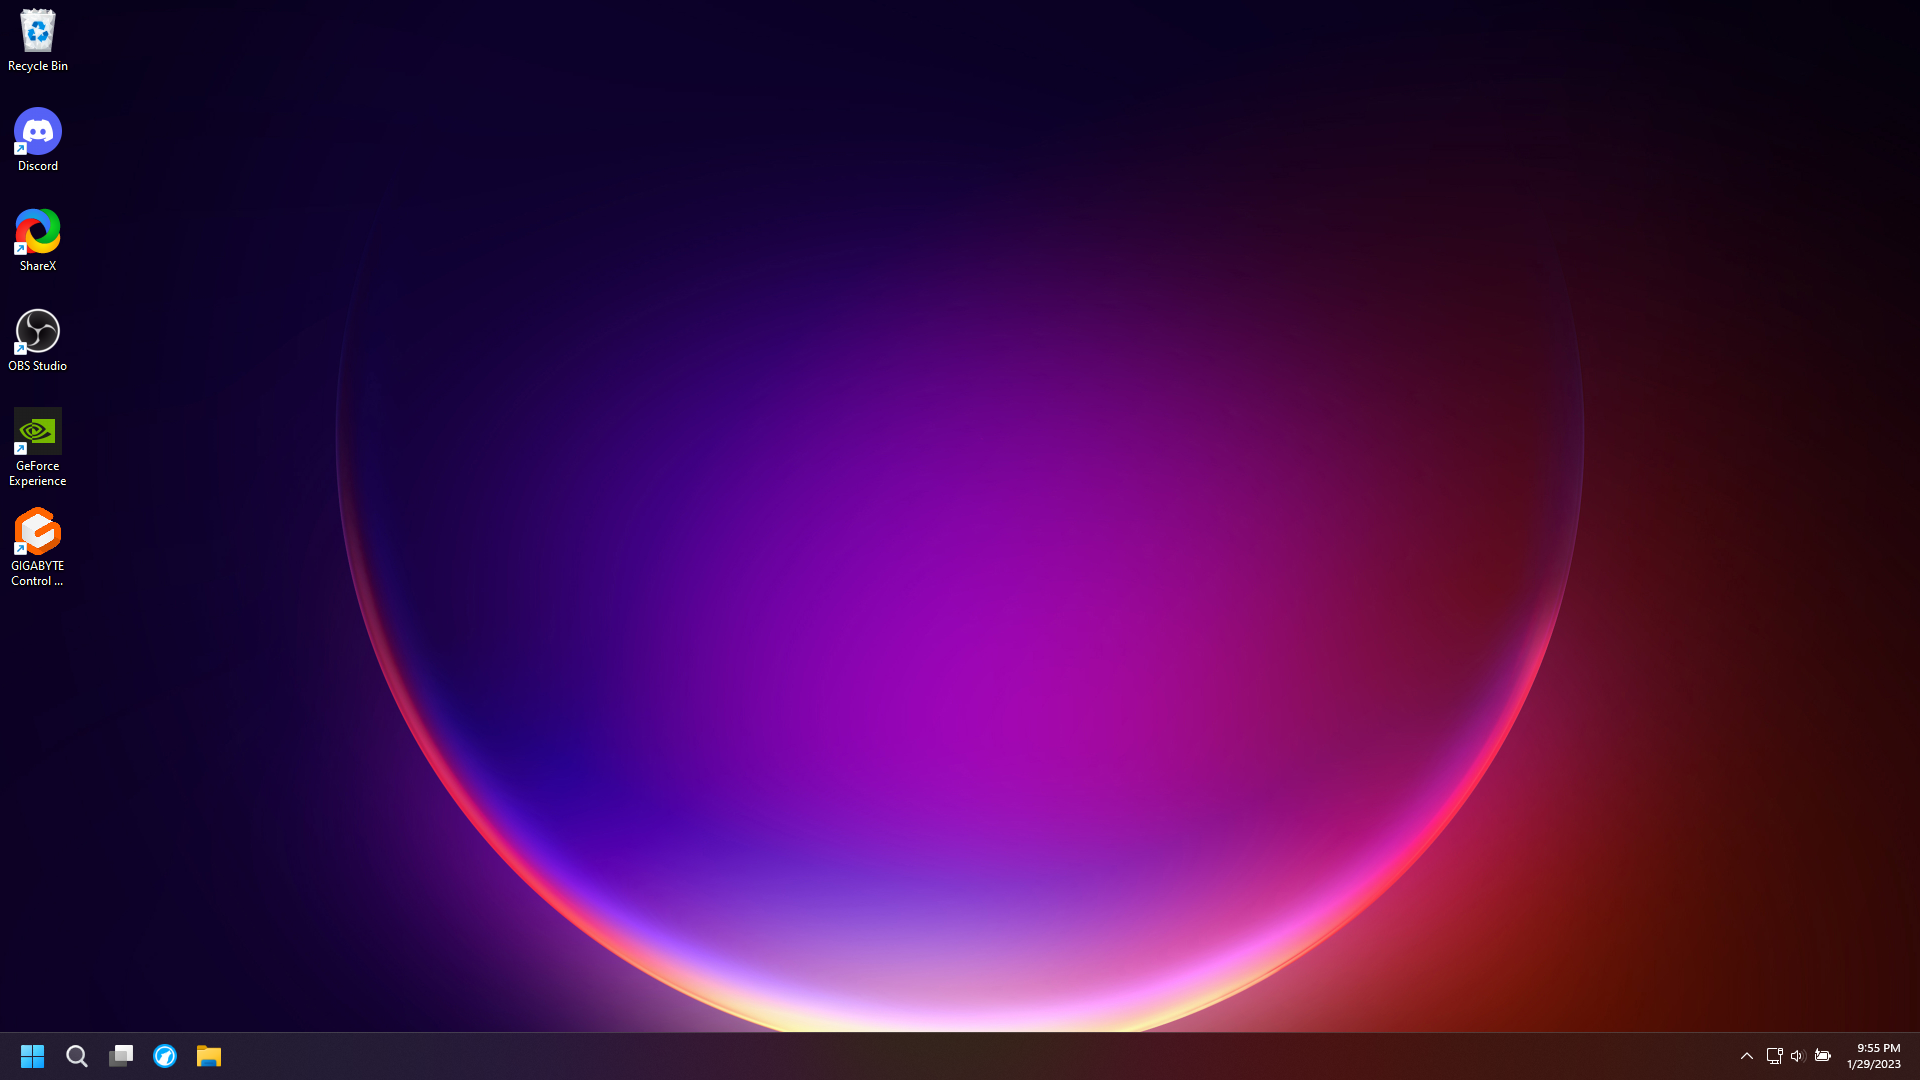
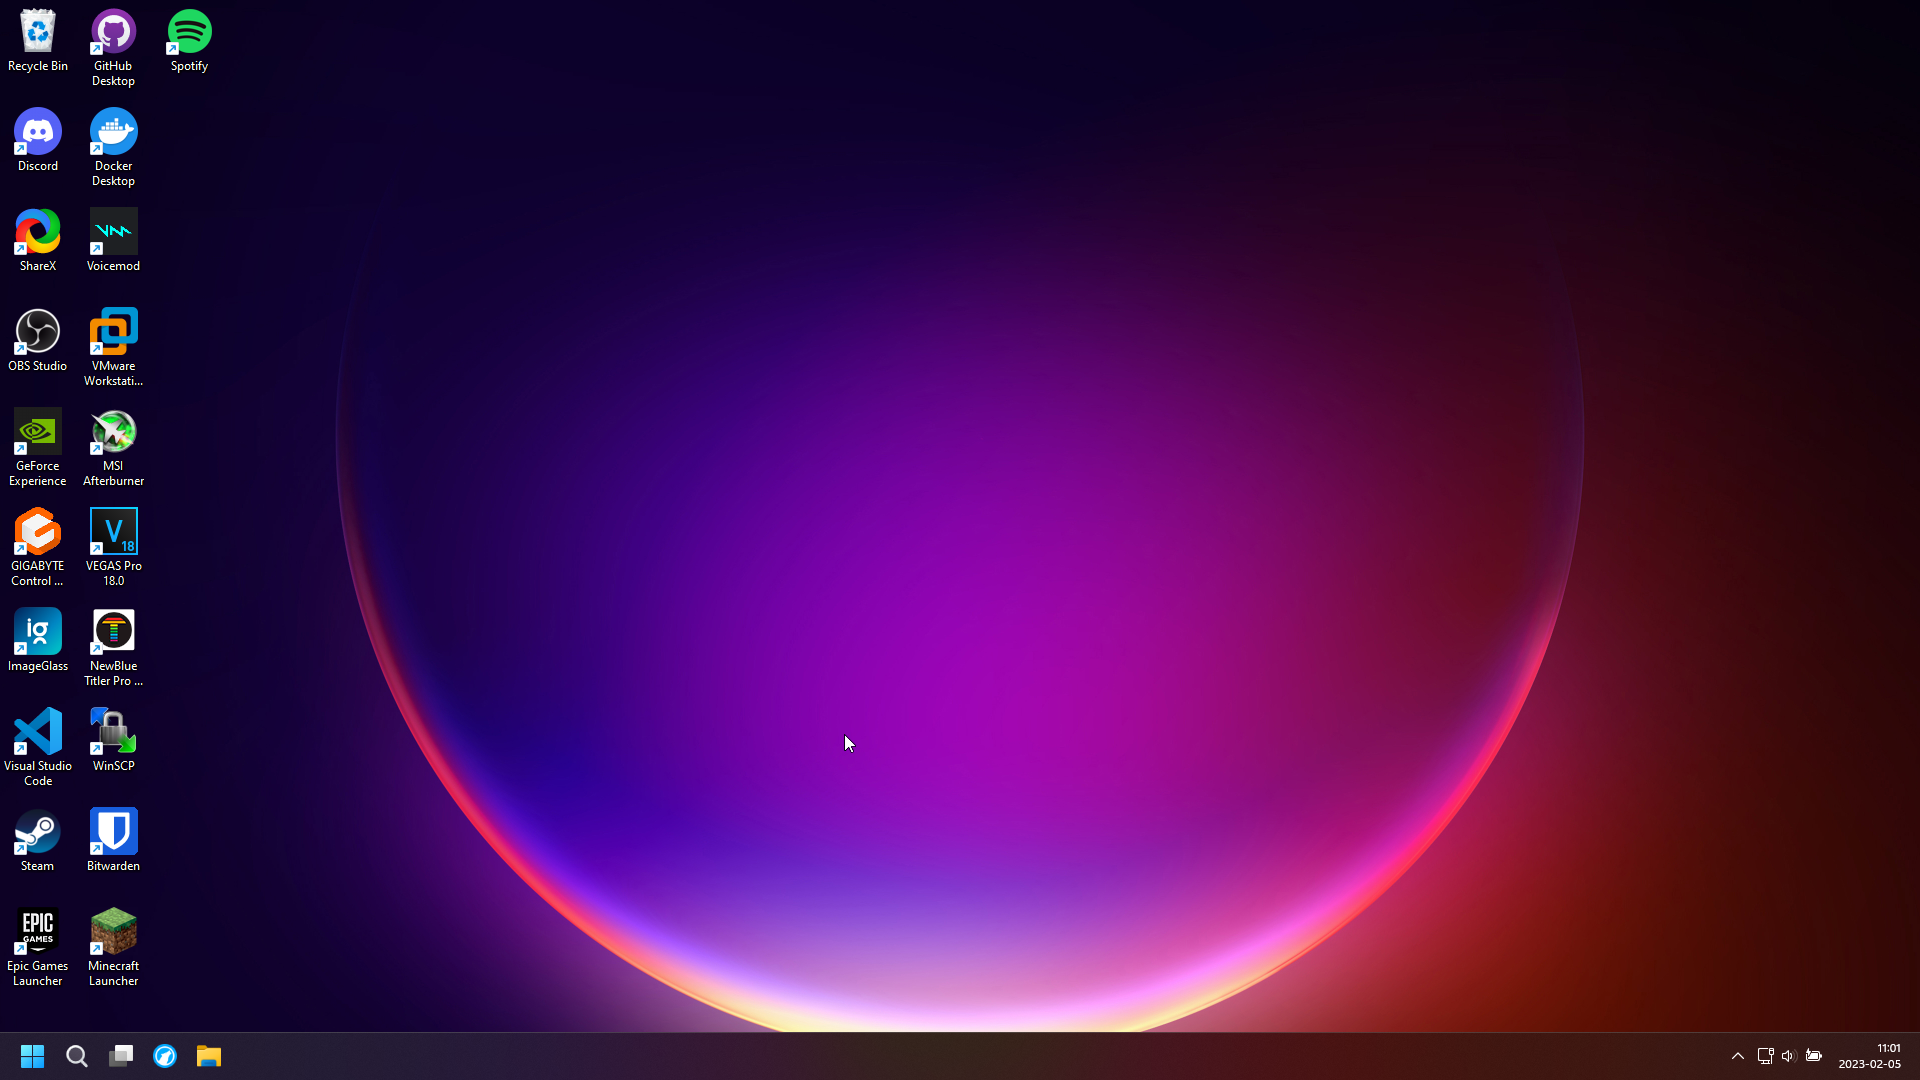
a big h

Changed region(s): [[0.0, 0.275, 0.0938, 0.9167], [0.0312, 0.0, 0.125, 0.2444], [0.9375, 0.9472, 1.0, 1.0]]

diff --git a/tmpl/downloads.cursors.html b/tmpl/downloads.cursors.html
@@ -5,7 +5,7 @@
 {%- endblock -%}
 
 {%- block content -%}
-<img class=siteimgcursors src=/static/title-art/cursors.gif alt="Download Cursors"><br><br><br>
+<img class=siteimgcursors src=/static/title-art/cursors.gif alt="Download Cursors"><br><br>
 
 <h3>Here's some cool cursors:</h3>
 
@@ -17,7 +17,10 @@
 			<p>Win95 Flag</p>
 		</td>
 		<td>
-			<p>The Windows 95 flag, but animated. How innovative. Get them <a href=/storage/cursor/win95.zip>here</a>.</p>
+			<p>The Windows 95 flag, but animated. How innovative.</p>
+		</td>
+		<td>
+			<a href=/storage/cursor/win95.zip>Download</a>
 		</td>
 	</tr>
 
@@ -27,7 +30,10 @@
 			<p>Sonic</p>
 		</td>
 		<td>
-			<p>You might like these if you're a Sonic fan. Get them <a href=/storage/cursor/sonic.zip>here</a>.</p>
+			<p>You might like these if you're a Sonic fan.</p>
+		</td>
+		<td>
+			<a href=/storage/cursor/sonic.zip>Download</a>
 		</td>
 	</tr>
 
@@ -37,7 +43,10 @@
 			<p>Black</p>
 		</td>
 		<td>
-			<p>Something to go with your ultra-dark theme. Get them <a href=/storage/cursor/black.zip>here</a>.</p>
+			<p>Something to go with your ultra-dark theme.</p>
+		</td>
+		<td>
+			<a href=/storage/cursor/black.zip>Download</a>
 		</td>
 	</tr>
 
@@ -47,7 +56,10 @@
 			<p>Rock on</p>
 		</td>
 		<td>
-			<p>Something a metalhead might like. Get them <a href=/storage/cursor/rockon.zip>here</a>.</p>
+			<p>Something a metalhead might like.</p>
+		</td>
+		<td>
+			<a href=/storage/cursor/rockon.zip>Download</a>
 		</td>
 	</tr>
 
@@ -57,7 +69,10 @@
 			<p>Tetris</p>
 		</td>
 		<td>
-			<p>If you're a Tetris fanatic or something. Get them <a href=/storage/cursor/tetris.zip>here</a>.</p>
+			<p>If you're a Tetris fanatic or something.</p>
+		</td>
+		<td>
+			<a href=/storage/cursor/tetris.zip>Download</a>
 		</td>
 	</tr>
 

diff --git a/tmpl/about.faq.html b/tmpl/about.faq.html
@@ -21,7 +21,7 @@
                 Oh, and don't forget the absurd amount of pop-ups, ads, tracking, and data-mining/selling!<br><br>
                 The old internet was when sites had personality, and the internet wasn't some coporate breeding ground. I much prefer this era... despite me being born near the end of it.<br><br>
                 So basically, I'm trying to relive the old days, when you could say, do, and find anything and have fun exploring the internet, and without any ads, tracking, or similar.<br><br> 
-                Unlike nowadays where most people are relegated to 3 - 6 sites, most of those harvest your data and sell them for a profit (Looking at you, Facebook/Meta and Google.), as well as bombard you with ads and other pop-ups.
+                Unlike nowadays where most people are relegated to 3 - 6 sites, most of those harvest your data and sell them for a profit (Looking at you, Facebook/Meta, TikTok, and Google.), as well as bombard you with ads and other pop-ups.
             </p>
 
 <br><br>

diff --git a/tmpl/projects.randomapp1.html b/tmpl/projects.randomapp1.html
@@ -14,7 +14,7 @@
 			<p>What is RandomApp1?</p>
 		</td>
 		<td>
-			<p>RandomApp1 is a random shitpost program that I made a year ago out of boredom. Someone sent me a picture of a SpongeBob PS2 controller and that sparked the idea for this... for some dumbass reason.</p>
+			<p>RandomApp1 is a random shitpost program that I made in 2021 out of boredom. Someone sent me a picture of a SpongeBob PS2 controller and that sparked the idea for this... for some dumbass reason.</p>
 		</td>
 	</tr>
 
@@ -23,7 +23,7 @@
 			<p>GitHub repository</p>
 		</td>
 		<td>
-			<p>If... for some weird-ass reason... you want to view the source code to it... well... <a href=https://github.com/hiden64/RandomApp1>here you go</a>.</p>
+			<p>If... for some weird-ass reason... you want to view the source code to it... well... <a href=https://github.com/hiden64/RandomApp1>here you go</a>, I guess.</p>
 		</td>
 	</tr>
 

diff --git a/tmpl/places.html b/tmpl/places.html
@@ -11,6 +11,16 @@
 <h4>These are some of my favorite places on the massive superhighway of the internet. Have a look:</h4>
 	
 <table class=placestable>
+
+	<tr>
+		<td>
+			<a href=https://sites.google.com/view/forzas-world>Forza's website</a>
+		</td>
+		<td>
+			<p>Best person on this planet <3.</p>
+			<p>Also needs to make Half-Life 3, or a TF2 update.</p>
+		</td>
+	</tr>
 	
 	<tr>
 		<td>
@@ -90,15 +100,6 @@
 		</td>
 		<td>
 			<p>Does a lot of random web stuff. Also a closeted furry.</p>
-		</td>
-	</tr>
-
-	<tr>
-		<td>
-			<a href=https://sites.google.com/view/forzas-world>Forza's website</a>
-		</td>
-		<td>
-			<p>Needs to make Half-Life 3, or a TF2 update.</p>
 		</td>
 	</tr>
 

diff --git a/tmpl/services.html b/tmpl/services.html
@@ -13,8 +13,8 @@
 			<a href=/services/gamesrv>Game servers</a>
 		</td>
 		<td>
-			<p>These are the game servers that I currently host. <br><br>
-			   Currently, it's only Minecraft 1.7.x - latest & Garry's Mod. Minecraft 1.2.5 & b1.7.3, Team Fortress 2, Team Fortress Classic, and Half-Life: Deathmatch are going to be launched soon™, however.</p>
+			<p>These are the game servers that I currently host.</p>
+			<p>Currently, it's only Minecraft 1.7.x - latest & Garry's Mod. Minecraft 1.2.5 & b1.7.3, Team Fortress 2, Team Fortress Classic, and Half-Life: Deathmatch are going to be launched soon™, however.</p>
 		</td>
 	</tr>
 

diff --git a/tmpl/404.html b/tmpl/404.html
@@ -8,7 +8,7 @@
 
 <img src=/././static/title-art/404.gif alt="Not found!"><br><br>
 
-<h4>That page could not be found; it was either renamed, relocated, removed, or doesn't exist. Check if you made any typos in the URL.</h4>
+<h4>That page could not be found; likely because it was either renamed, relocated, removed, or doesn't exist. Check if you made any typos in the URL.</h4>
 
 <h4>If you believe this was caused in error, either due to a bug or something else, <a class=link404 href=https://github.com/HIDEN64/hidens-website/issues>File an issue on GitHub</a>, or <a class=link404 href=/about/socials>contact me</a>.</h4>
 

diff --git a/tmpl/about.socials.html b/tmpl/about.socials.html
@@ -102,7 +102,7 @@
 			<p>YouTube channel</p>
 		</td>
 		<td>
-			<p>My YouTube channel can be found <a href=https://www.youtube.com/channel/UCFljx20_mhSJxD5Pv0ld34g>here</a>. The content is rather grab-bag; I just upload whatever I feel like uploading. It could be anything :P.</p>
+			<p>My YouTube channel can be found <a href=https://www.youtube.com/channel/UCFljx20_mhSJxD5Pv0ld34g>here</a>. The content is rather grab-bag; I just upload/stream whatever I feel like uploading. It could be anything :P.</p>
 			<p>Well... when I <em>do</em> upload, that is, which isn't that often to say the least :P.</p>
 		</td>
 	</tr>

diff --git a/tmpl/computers.desktops.a5ke4.2023-01-30.html b/tmpl/computers.desktops.a5ke4.2023-01-30.html
@@ -1,0 +1,20 @@
+{%- extends 'base.html' -%}
+
+{%- block meta -%}
+	<meta name="description" content="The desktop images for my GIGABYTE AORUS 5 KE4">
+{%- endblock -%}
+
+{%- block content -%}
+<h2>Windows 11 Enterprise 22H2</h2>
+
+<br>
+
+<img class=deskss src=/static/desktops/a5ke4/2023-01-30/win11.png alt="Windows 11 desktop, GIGABYTE AORUS 5 KE4" title="Garuda Linux desktop, GIGABYTE AORUS 5 KE4">
+
+
+<br><br><br>
+
+
+<a class=votxt href=/computers/desktops/a5ke4>View current desktop</a>
+
+{%- endblock -%}

diff --git a/tmpl/computers.desktops.a5ke4.old.html b/tmpl/computers.desktops.a5ke4.old.html
@@ -1,7 +1,7 @@
 {%- extends 'base.html' -%}
 
 {%- block meta -%}
-	<meta name="description" content="The desktop images for my GIGABYTE AORUS 5 KE4">
+	<meta name="description" content="The desktop images for my GIGABYTE AORUS 5 KE4.">
 {%- endblock -%}
 
 {%- block content -%}
@@ -21,5 +21,8 @@
 
 <a class=votxt href=/computers/desktops/a5ke4/old/2023-01-25>2023-01-25</a>
 
+<br><br>
+
+<a class=votxt href=/computers/desktops/a5ke4/old/2023-01-30>2023-01-30</a>
 
 {%- endblock -%}

diff --git a/tmpl/about.html b/tmpl/about.html
@@ -17,7 +17,7 @@
 		</td>
 		<td>
 			<p>I am Anna/HIDEN. You might also (formerly) know me as HIDEN64 or epictaco/EpicTaco404. I'm a 15 year old, pansexual, transgender woman that lives in the hell-hole that is the south-central USA. I'm a libertarian-socialist. I have diagnosed GAD and probably Tourettes; I also probably have ADHD, OCD, and Autism.</p>
-			<p>Oh, and I'm taken.</p>
+			<p>Oh, and I'm taken (love ya, Gabe <3).</p>
  		</td>
 	</tr>
 	

diff --git a/tmpl/index.aprilfools.2022.html b/tmpl/index.aprilfools.2022.html
@@ -1,6 +1,6 @@
 <link rel=stylesheet href=/static/style/aprilfools.2022.css />
 <title>THE BEAST WEBSIT ON DA INTERNETZ!!!!!!!!!!!!!!!!!!!!!!!!!!!!!!!!!!!!!!!!!!</title>
-<h1>helo welcome to me awsom websti on da interawebz</h1>
+<h1>helo welcome to me awsom webosti on da interawebz</h1>
 <h1>
   <img height=400px width=400px src=/static/holiday/april_fools/2022/gento.png>i lov da gento is my favor linuk disterioyeobation. is my fafe
 </h1>

diff --git a/tmpl/projects.pubsite.html b/tmpl/projects.pubsite.html
@@ -15,7 +15,7 @@
 			<p>What is PubSite?</p>
 		</td>
 		<td>
-			<p>PubSite is a website that anyone can edit, and make commits to. The goal was to see how much chaos would happen from creating what's basically an anarchy website.</p>
+			<p>PubSite is a website that anyone can edit/make changes to. The goal was to see how much chaos would happen from creating what's basically an anarchy website.</p>
 		</td>
 	</tr>
 	
